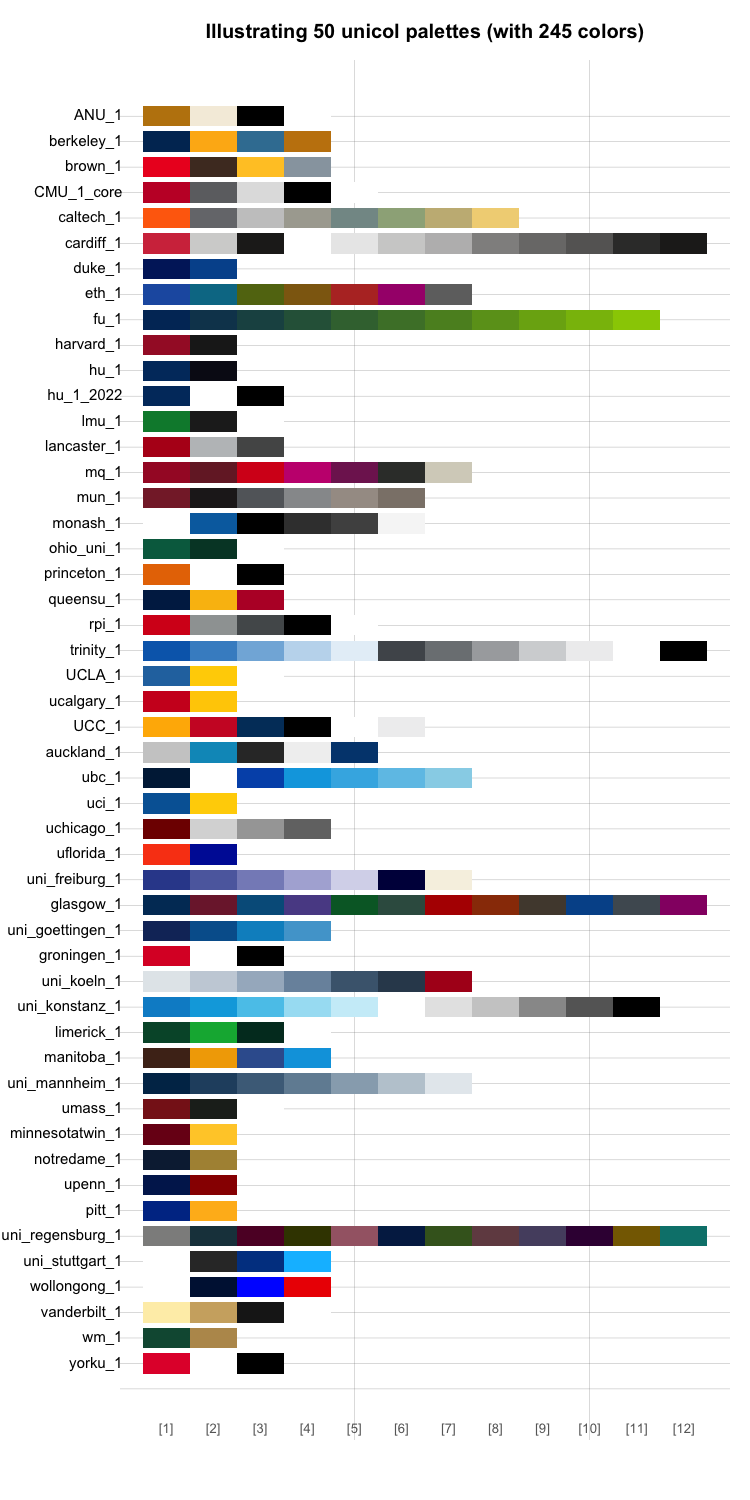
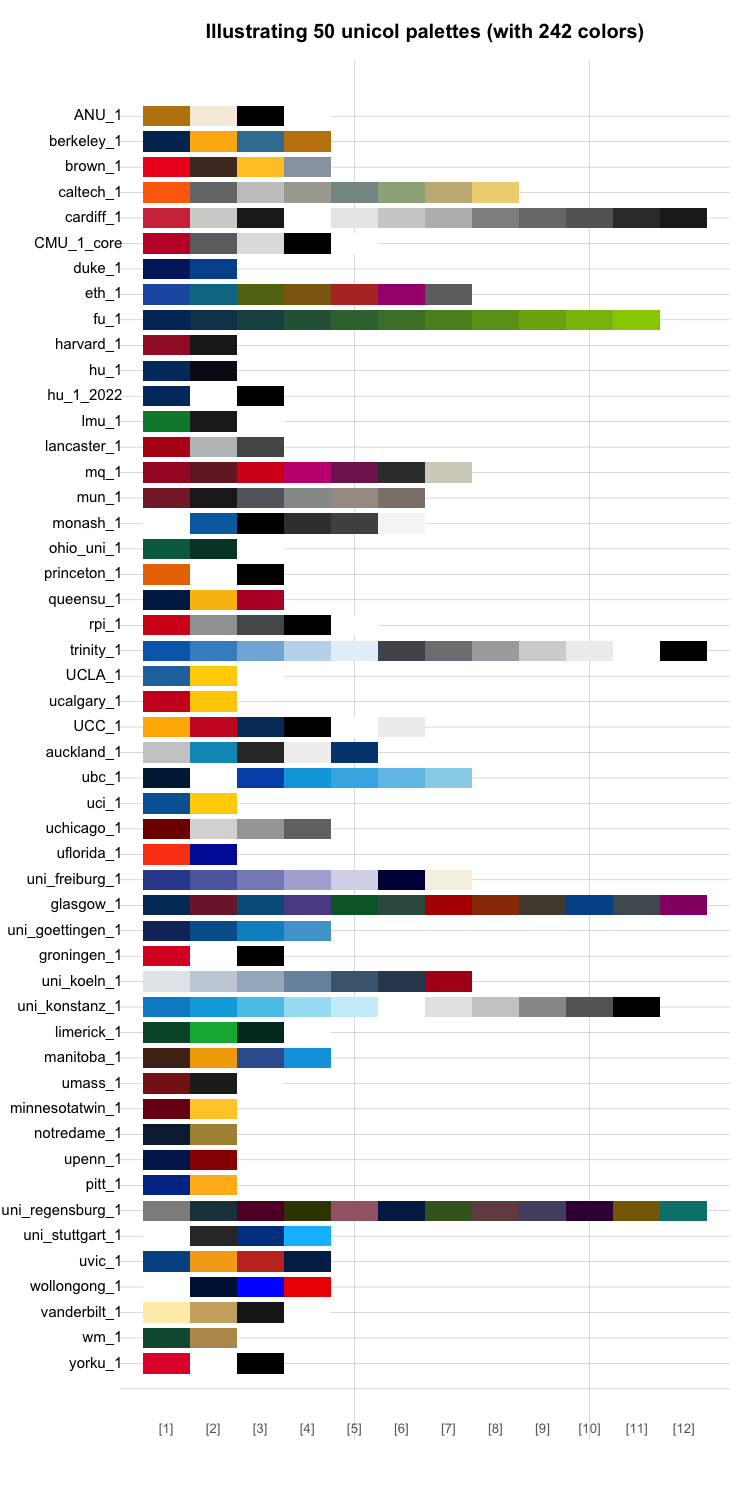
update README

diff --git a/README.md b/README.md
@@ -104,18 +104,19 @@ an overview of included color palettes and institutions.)
 <!-- Show as a table: -->
 <!-- Show as a figure: -->
 
-**Figure 1** illustrates 50 random color palettes (with 243 colors):
+**Figure 1** illustrates 50 random color palettes (with 242 colors):
 
 <div class="figure" style="text-align: center">
 
-<img src="man/figures/README-unicol-pals-example-1-figure-1.png" alt="Figure 1: A sample of 50 unicol palettes (containing 243 colors)." width="600px" />
+<img src="man/figures/README-unicol-pals-example-1-figure-1.png" alt="Figure 1: A sample of 50 unicol palettes (containing 242 colors)." width="600px" />
 <p class="caption">
-Figure 1: A sample of 50 unicol palettes (containing 243 colors).
+Figure 1: A sample of 50 unicol palettes (containing 242 colors).
 </p>
 
 </div>
 
 <!-- ![Examples of 50 color palettes included in **unicol**.](./man/figures/README-unicol-pals-example-1-figure-1.png) -->
+<!-- Example 2:  Clusters / relations / similar sets -->
 
 ### Using color palettes
 
@@ -324,6 +325,6 @@ creators.
 
 <!-- Footer: -->
 
-\[File `README.Rmd` updated on 2023-09-19.\]
+\[File `README.Rmd` updated on 2023-09-20.\]
 
 <!-- eof. -->
